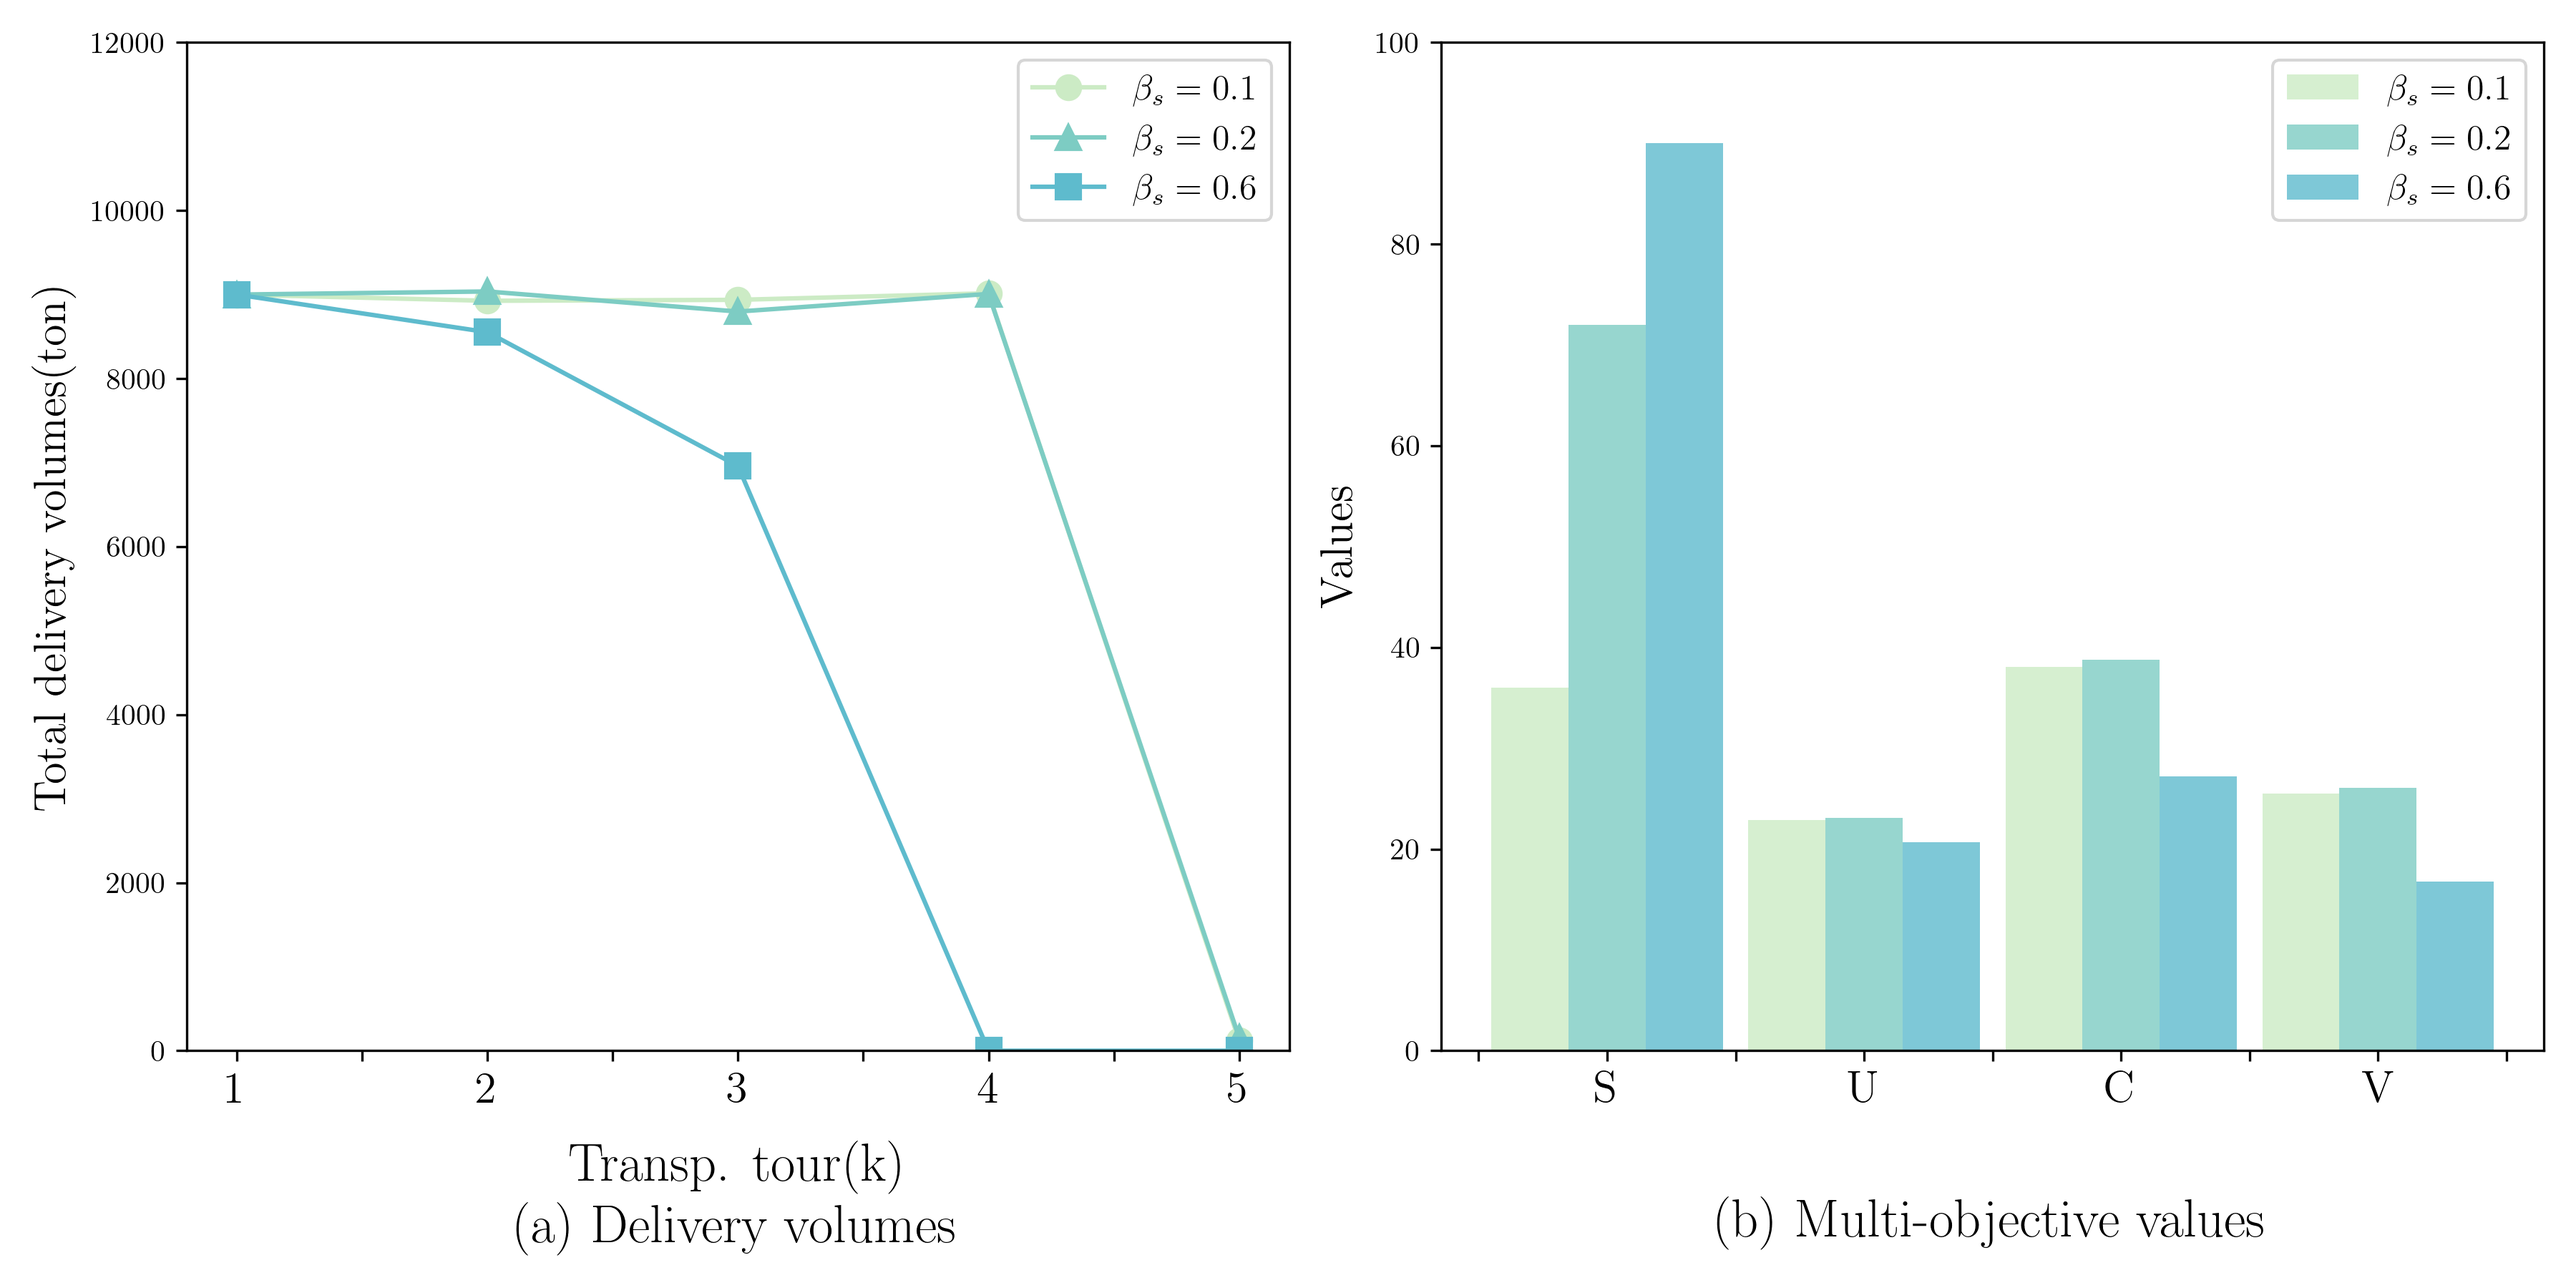
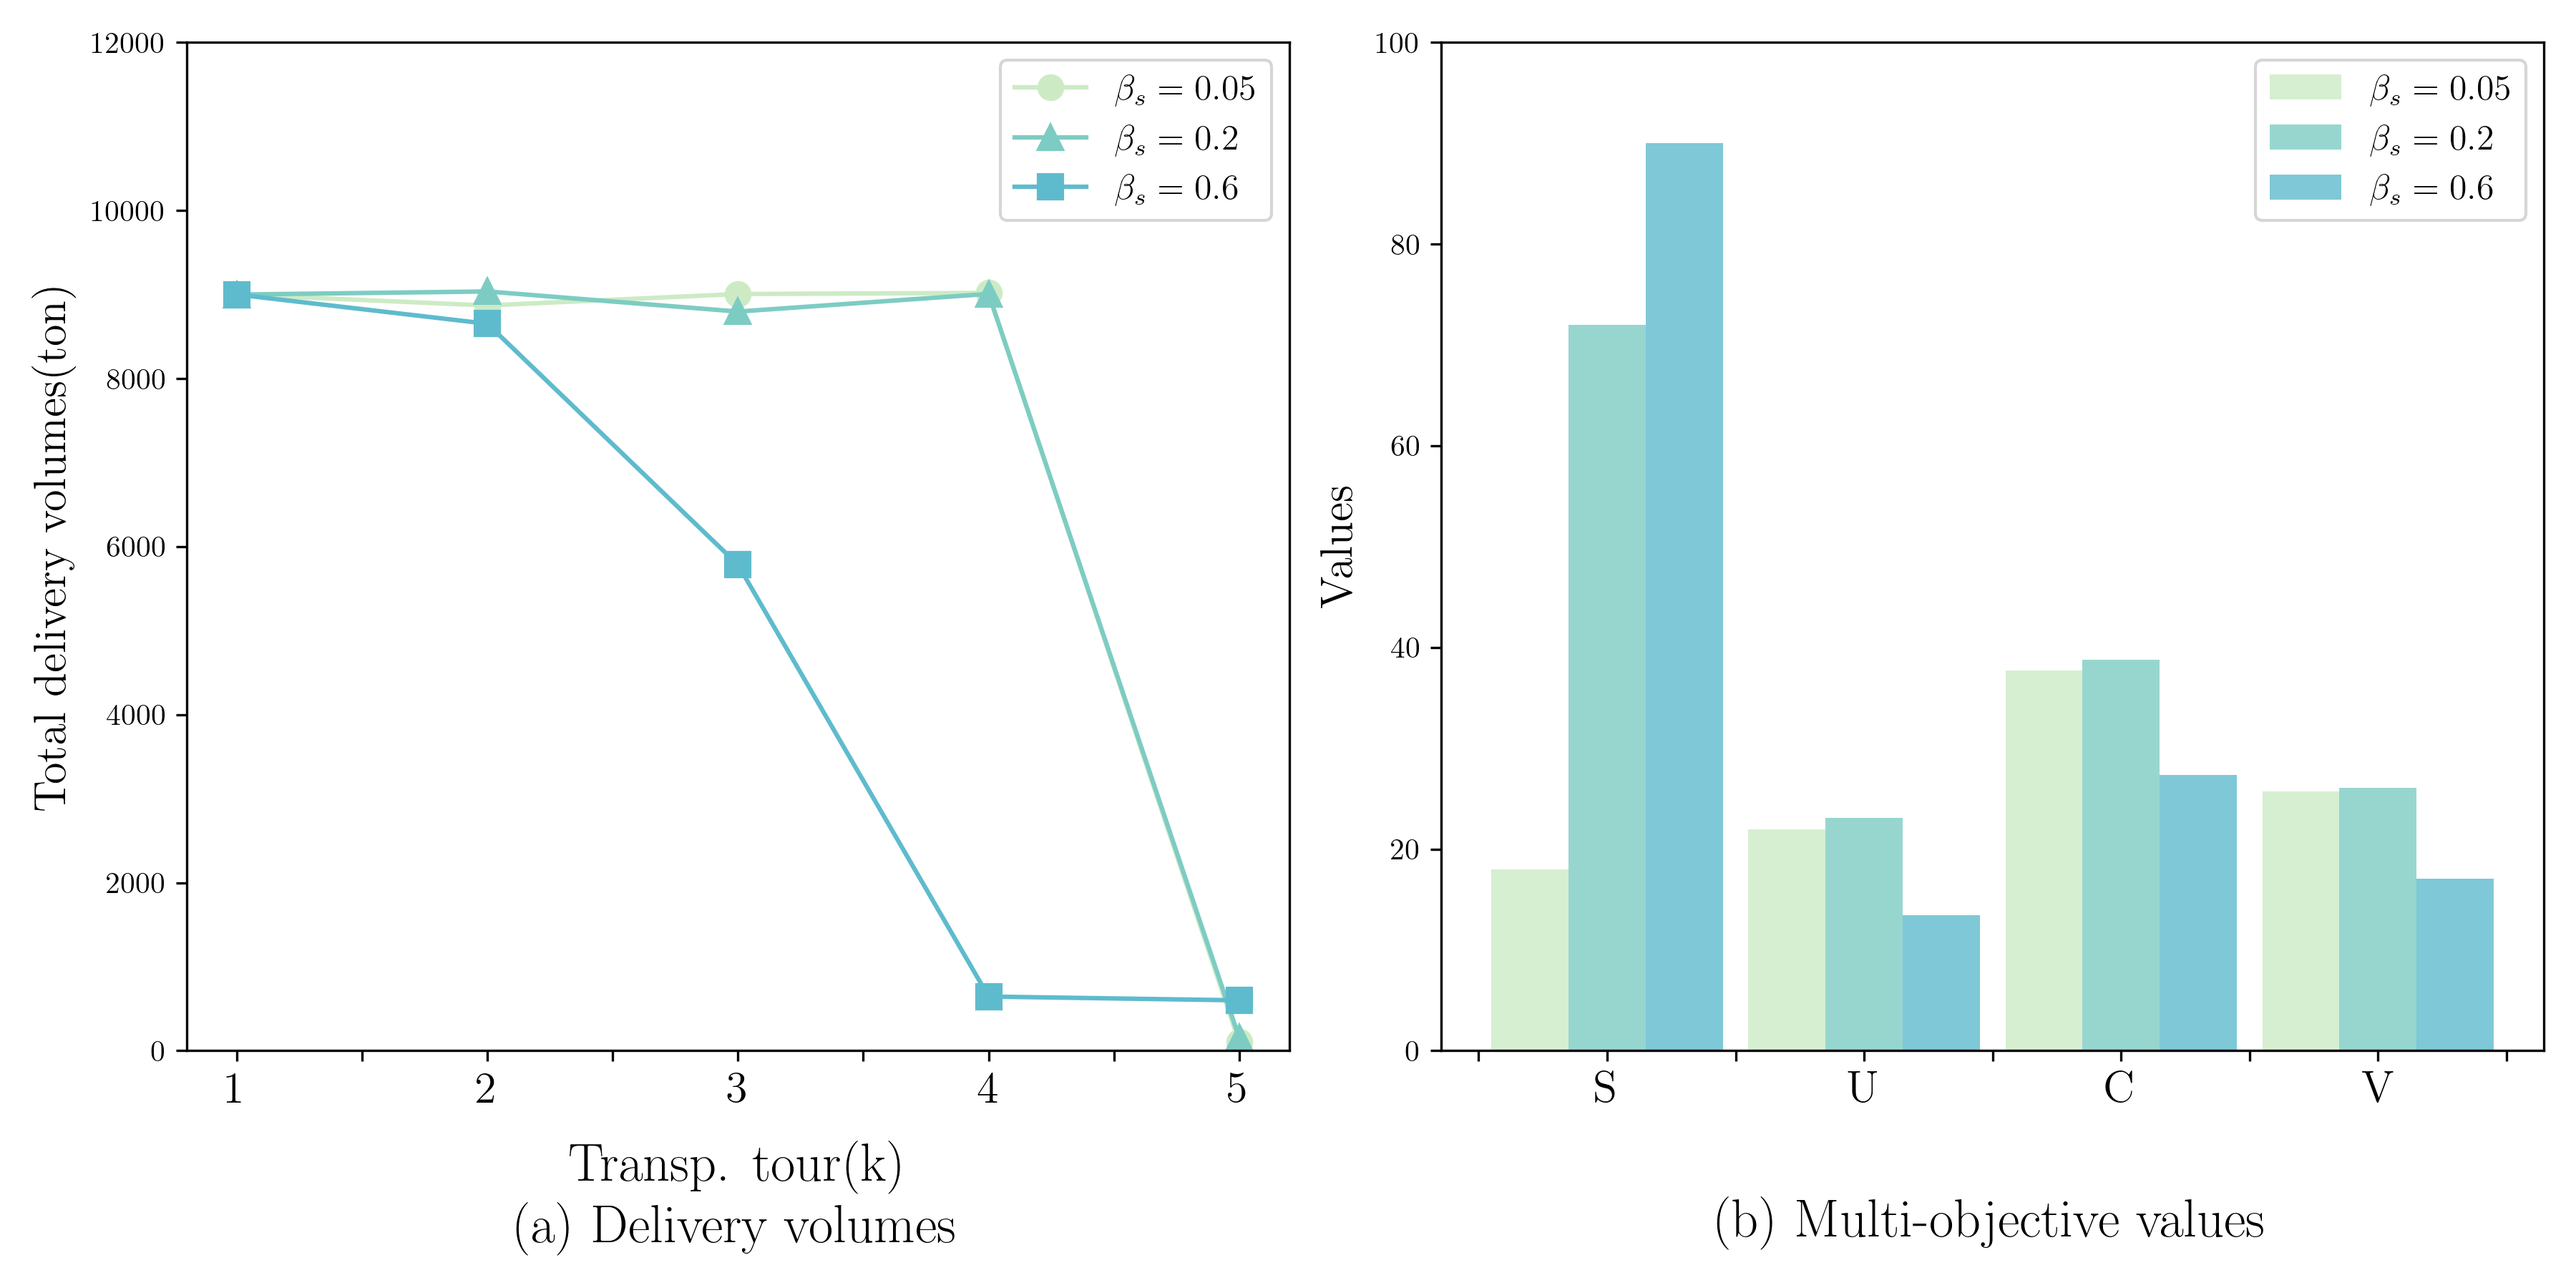
0416: update

diff --git a/src/main.py b/src/main.py
@@ -46,13 +46,13 @@ class FMOP(MOP):  # Extend from the MOP class, override function of solve and pr
             self.save_res(S, U, C, V, Q_21, Q_31, Q_22, Q_32, Q_33, Q_24, Q_25, Q_35, Q_16, Q_37, k_tour_delivery_table, demand, k)
             k += 1
 
-    def print_res(self):
-        Delivery = self.res_table1.iloc[:, 1:].sum(axis=1)
-        self.res_table1['Demand'] = self.initial_demand.tolist() + ['*' for _ in range(3)]
-        self.res_table1['Delivery'] = Delivery
-        print(self.res_table1.to_markdown(index=False))
-        self.res_table2['Total'] = self.res_table2.iloc[:, 1:].sum(axis=1)
-        print(self.res_table2.to_markdown(index=False))
+    # def print_res(self):
+    #     Delivery = self.res_table1.iloc[:, 1:].sum(axis=1)
+    #     self.res_table1['Demand'] = self.initial_demand.tolist() + ['*' for _ in range(3)]
+    #     self.res_table1['Delivery'] = Delivery
+    #     print(self.res_table1.to_markdown(index=False))
+    #     self.res_table2['Total'] = self.res_table2.iloc[:, 1:].sum(axis=1)
+    #     print(self.res_table2.to_markdown(index=False))
 
 
 def get_configs(beta_ms, beta_v1):
@@ -84,7 +84,7 @@ def get_configs(beta_ms, beta_v1):
 
 
 if __name__ == '__main__':
-    args = get_configs(beta_ms=0.6, beta_v1=0.5)
+    args = get_configs(beta_ms=0.2, beta_v1=0.5)
     if args.flag == 'Solve':
         for policy in ['Spontaneous', 'GovernmentRegulation']:
             objective_matrix = []

diff --git a/src/model/MOP.py b/src/model/MOP.py
@@ -87,9 +87,9 @@ class MOP:
         # equation (9)
         unmet_demand = (n - Q * (1 / self.q))
         if last_U <= self.last_U_underline:
-            return self.c_v * self.beta_v1 * unmet_demand
+            return self.c_v * self.beta_v1 * unmet_demand * self.n_g
         else:
-            return self.c_v * self.beta_v2 * unmet_demand
+            return self.c_v * self.beta_v2 * unmet_demand * self.n_g
 
     def get_invulnerability(self, delivery_table):
         # equation (10)
